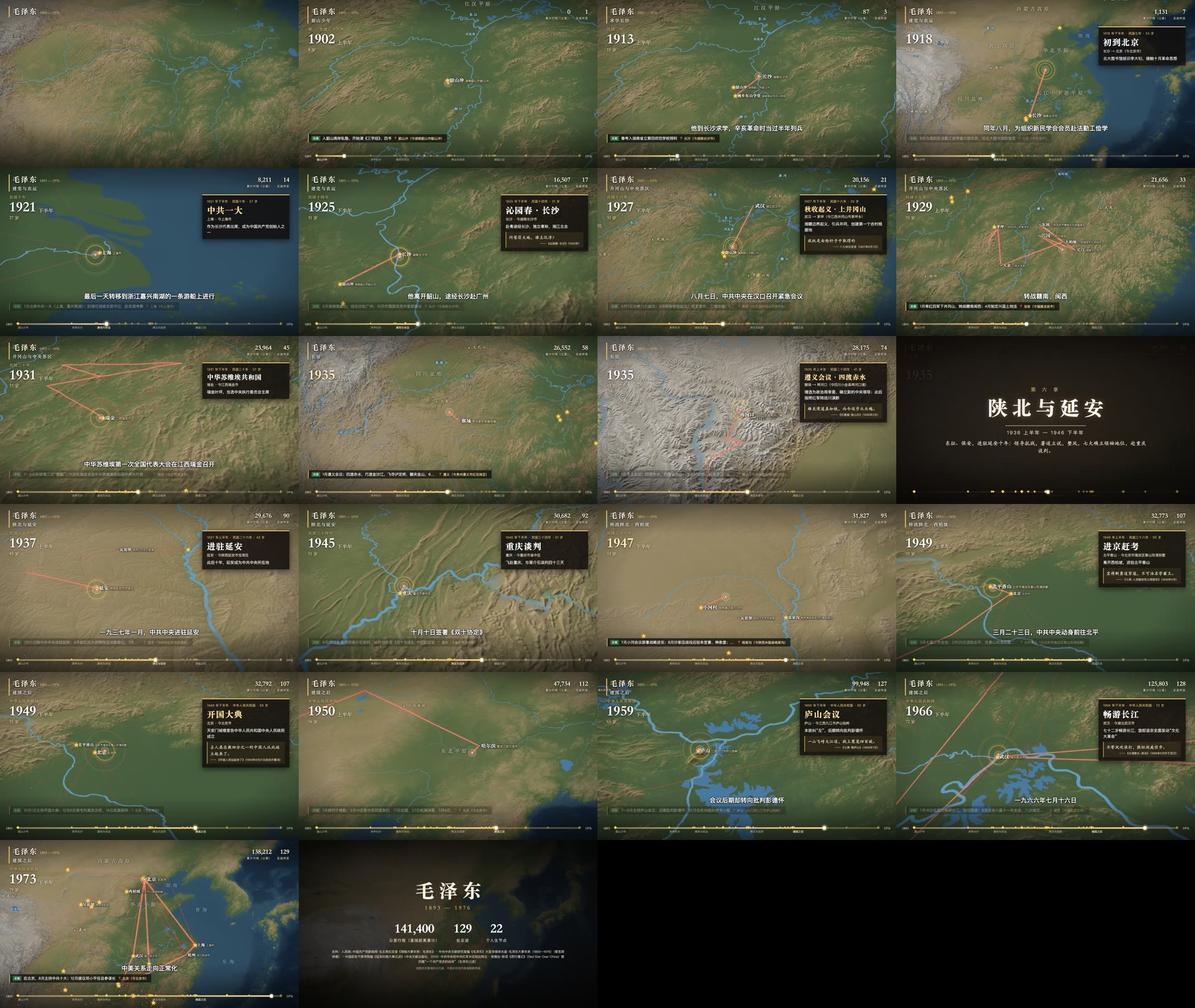
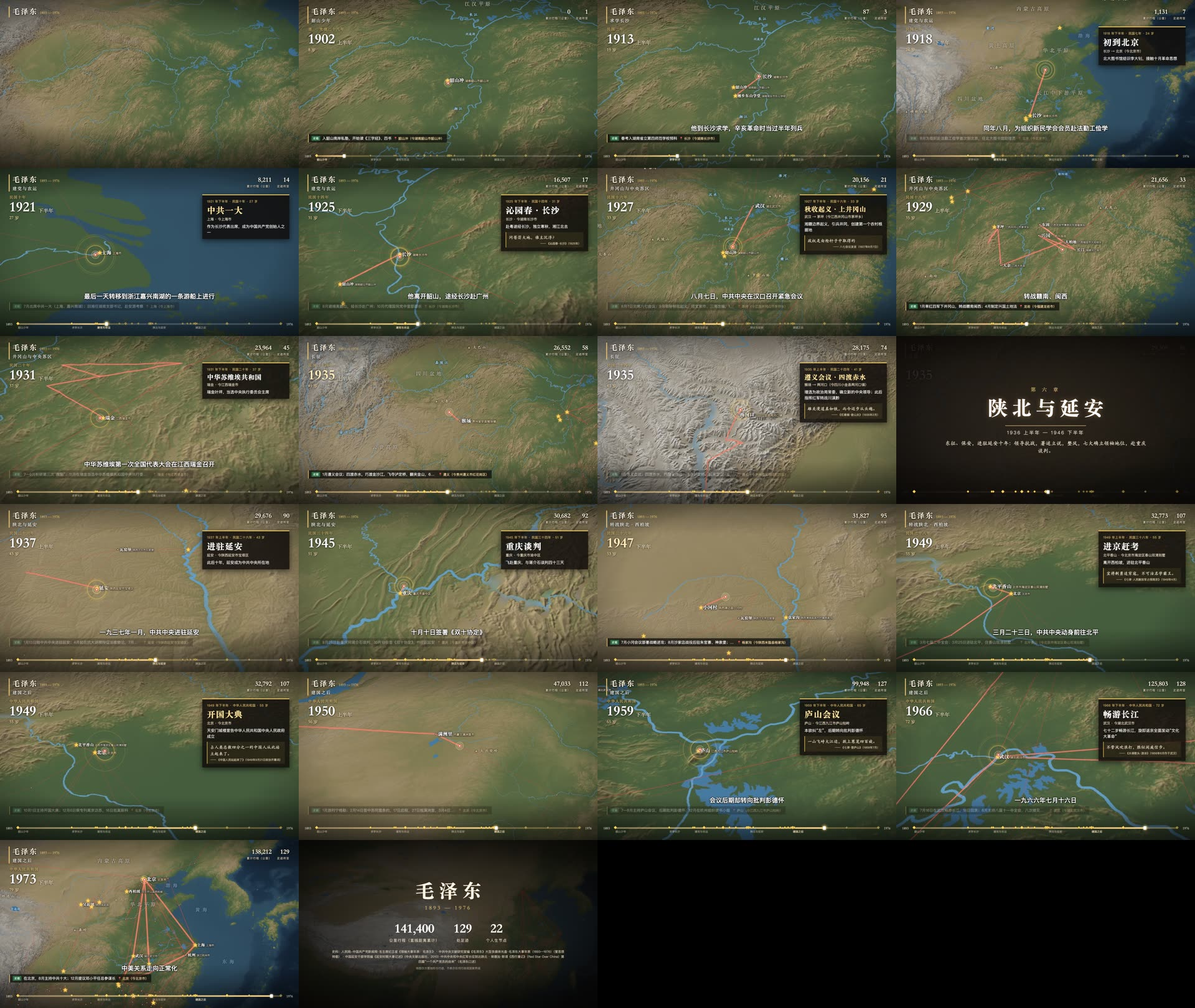
docs: land run — final contact sheets from eb42007 renders, round-2 ledger

Changed region(s): [[0.25, 0.6481, 0.5, 0.8333], [0.3125, 0.8642, 0.4688, 0.9568], [0.25, 0.6481, 0.3125, 0.7099]]

diff --git a/docs/runs/2026-10-05-three-lives.md b/docs/runs/2026-10-05-three-lives.md
@@ -1,6 +1,7 @@
 # 三人人生轨迹视频：毛泽东 · 诸葛亮 · 苏轼
 
-- status: flying <!-- planned → flying → landed -->
+- status: landed <!-- planned → flying → landed -->
+- final render commit: eb42007（三部 mp4 均由此提交渲染）
 - workspace: lives/ (git, autopilot/three-lives)
 - base: 8d63ddd
 - contract: docs/autopilot.md
@@ -34,7 +35,7 @@ Frozen at takeoff. A run changes `status` and `evidence`, never the criterion.
 4. [x] 解说词、TTS、时间轴（半年步 + 里程碑停留）— owns C3, C5, C7（时间轴部分）
 5. [x] 引擎场景：轨迹生长、HUD、里程碑高亮、标注 — owns C3, C4, C5
 6. [x] 配乐：三人分阶段情绪设计与合成 — owns C6
-7. [x] 渲染、混音、总装与审片 — owns C8（最终成片对应提交 fc89e5b）
+7. [x] 渲染、混音、总装与审片 — owns C8（最终成片对应提交 eb42007）
 8. [x] 落地：整体评审、验收清单
 
 ## Ledger
@@ -85,6 +86,11 @@ Frozen at takeoff. A run changes `status` and `evidence`, never the criterion.
 | R11 | 整体评审 r1 | 对抗复查 | 远途里程碑的停留时长把行进时间也算了进去；字幕有 22 处重叠（最长 0.06 s） | minor-fixed | fc89e5b（抵达后至少停 3 s，字幕去重叠，两项都有测试） |
 | R12 | 整体评审 r1 | 对抗复查 | test_milestone_stays_at_its_place 只是照抄实现里的常量 8 | dispute | 审查方：测试复述了实现。我方：“≥8 个途经点才按远途处理”本身就是规格，测试的作用是锁住规格；mutations.md 证明停留点被改到杭州时它会变红 |
 | R13 | 自查·审片 | 主线程 | 远途镜头期间，事件条的 📍 显示星标所在地（遵义），而不是标记当前所在的位置 | minor-open | 1935H1 本身就是“遵义会议”这一步，这样显示也说得通；未改 |
+| R14 | 整体评审 r2 | 对抗复查 | 莫斯科、列宁格勒的代理点落在内蒙古，1949 年那段轨迹从满洲里掉头向西南 | fixed-unreviewed | 改为沿北京方向延伸到地图边缘，并新增 test_offmap_proxy_points_toward_moscow（恢复旧算法后该测试变红）；截图显示路线向西越过巴尔喀什湖。此修复未经评审复看 |
+| R15 | 整体评审 r2 | 对抗复查 | HUD 每条字幕多显示 0.1 s，抵消了构建器的去重叠，画面上下一句最多晚出 0.08 s | fixed-unreviewed | hud.js 按字幕原始时间窗显示。只做了代码阅读核对，没有画面层面的测试 |
+| R16 | 整体评审 r2 | 对抗复查 | 删掉出生步特判后 47 项测试仍全绿（test_js 只核对常量） | minor-open | 出生卡已在截图 out/verify.jpg 中目视确认；HUD 的 DOM 测试未补 |
+| R17 | 整体评审 r2 | 对抗复查 | 221H1 时“蜀汉”地图注记晚于卡片出现；诸葛亮 181H1 的 note 文字重复 | fixed-unreviewed | people.js 改为从 221H1 起显示；note 已清理 |
+| R18 | 整体评审 r2 | 对抗复查 | 228H1 卡片写“戮谡以谢众”，旁白说“下狱而死”，两者同屏 | dispute | 审查方：措辞不一致。我方：两者分别出自本传与《马谡传》，都是正史原文，同屏可以互补；未改 |
 | F12 | 自查·审片 | 主线程 | 年龄按年份差计算，毛泽东多算一岁；卡片上写“七十三岁” | blocking-fixed | 85cd963 |
 
 ### Parked

diff --git a/docs/evidence/audio-sushi.md b/docs/evidence/audio-sushi.md
@@ -1,6 +1,6 @@
 # 配乐分阶段指标 — sushi
 
-命令：`python3 tools/audio_report.py sushi`（out/sushi/music.wav，由 `music/score.py sushi` 在 fc89e5b 生成）
+命令：`python3 tools/audio_report.py sushi`（out/sushi/music.wav，由 `music/score.py sushi` 在 eb42007 生成）
 
 ```
 stage     mood                t0      t1    dBFS  centroid  onsets/s

diff --git a/docs/evidence/audio-zhuge.md b/docs/evidence/audio-zhuge.md
@@ -1,6 +1,6 @@
 # 配乐分阶段指标 — zhuge
 
-命令：`python3 tools/audio_report.py zhuge`（out/zhuge/music.wav，由 `music/score.py zhuge` 在 fc89e5b 生成）
+命令：`python3 tools/audio_report.py zhuge`（out/zhuge/music.wav，由 `music/score.py zhuge` 在 eb42007 生成）
 
 ```
 stage     mood                t0      t1    dBFS  centroid  onsets/s

diff --git a/docs/evidence/audio-mao.md b/docs/evidence/audio-mao.md
@@ -1,6 +1,6 @@
 # 配乐分阶段指标 — mao
 
-命令：`python3 tools/audio_report.py mao`（out/mao/music.wav，由 `music/score.py mao` 在 fc89e5b 生成）
+命令：`python3 tools/audio_report.py mao`（out/mao/music.wav，由 `music/score.py mao` 在 eb42007 生成）
 
 ```
 stage     mood                t0      t1    dBFS  centroid  onsets/s
